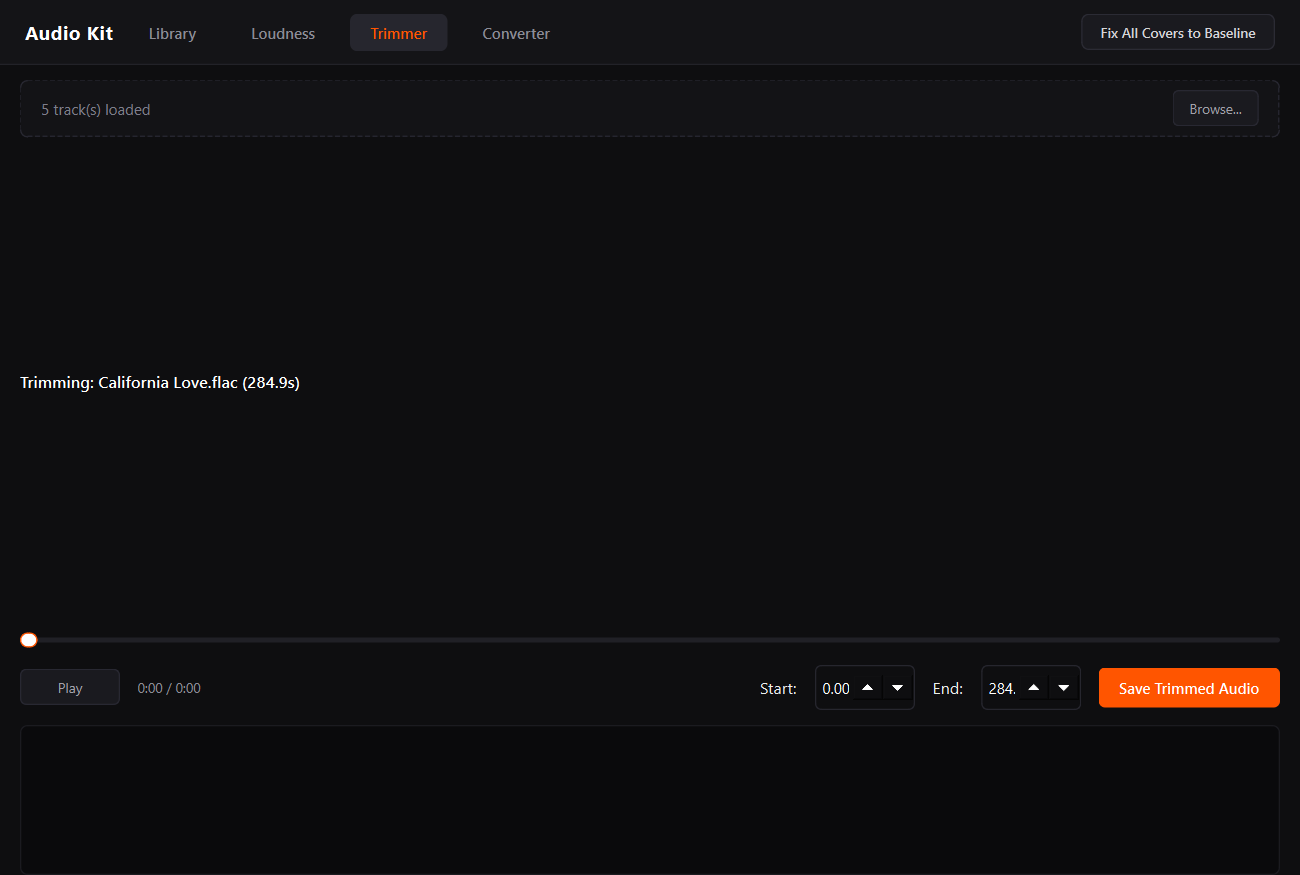
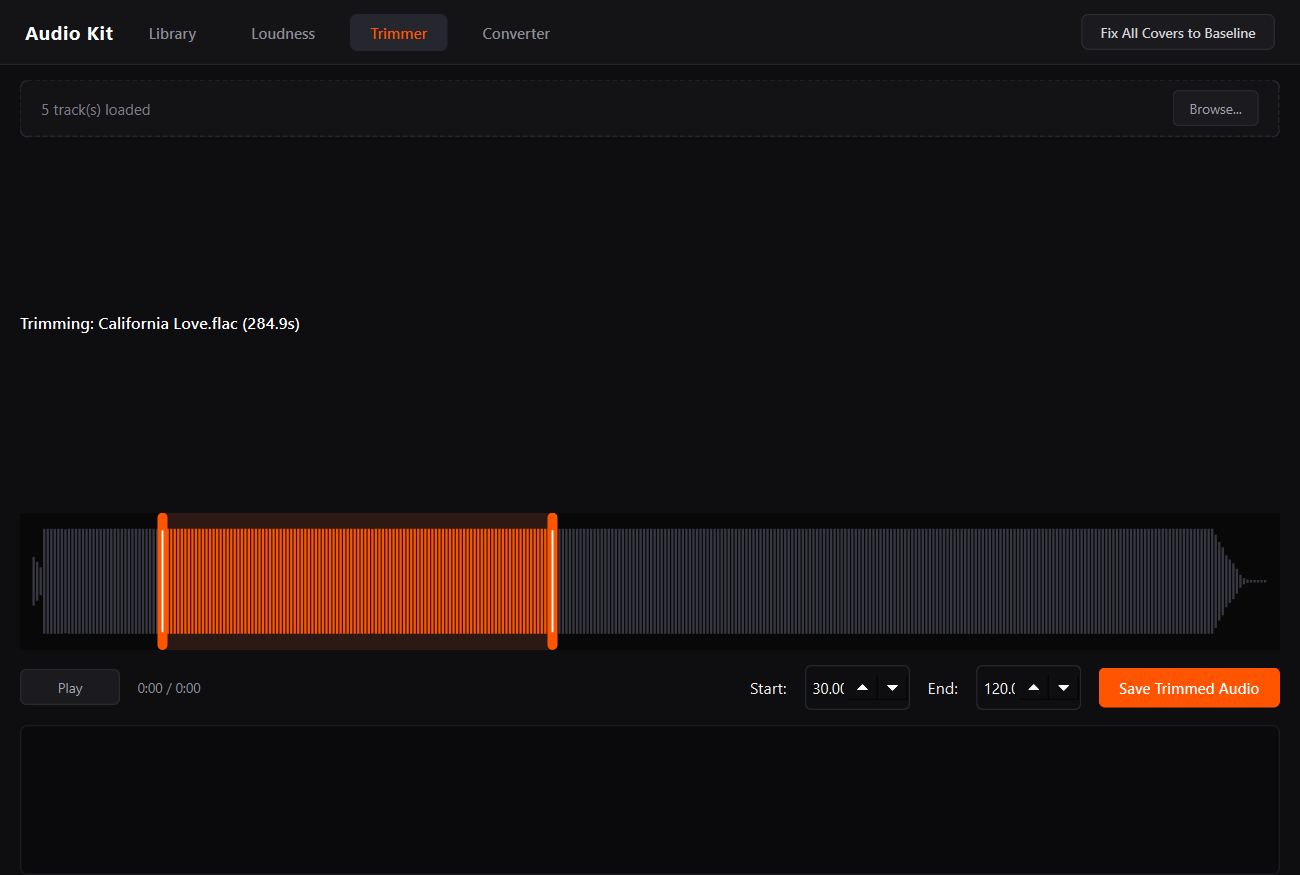
Add interactive draggable waveform timeline with dual start/end range handles

diff --git a/gui/waveform.py b/gui/waveform.py
@@ -1,0 +1,193 @@
+"""
+WaveformTimeline Widget for Audio Kit
+Renders an interactive audio waveform with draggable Start and End range handles,
+active selection highlight, and live playback playhead.
+"""
+
+import numpy as np
+import soundfile as sf
+from PyQt6.QtWidgets import QWidget
+from PyQt6.QtCore import Qt, pyqtSignal, QRectF
+from PyQt6.QtGui import QPainter, QColor, QPen, QBrush, QMouseEvent
+
+class WaveformTimeline(QWidget):
+    rangeChanged = pyqtSignal(float, float) # start_sec, end_sec
+    seekRequested = pyqtSignal(float)       # pos_sec
+
+    def __init__(self, parent=None):
+        super().__init__(parent)
+        self.setFixedHeight(110)
+        self.setMouseTracking(True)
+        self.setCursor(Qt.CursorShape.CrossCursor)
+
+        self.duration_sec = 0.0
+        self.start_sec = 0.0
+        self.end_sec = 0.0
+        self.current_pos_sec = 0.0
+        self.peaks = [] # Normalized peak amplitudes (0.0 to 1.0)
+
+        # Dragging state
+        self.dragging_handle = None # 'start', 'end', or 'seek'
+        self.handle_width = 10
+
+    def load_audio(self, file_path):
+        try:
+            info = sf.info(file_path)
+            self.duration_sec = float(info.duration)
+            self.start_sec = 0.0
+            self.end_sec = self.duration_sec
+            self.current_pos_sec = 0.0
+
+            # Downsample to ~350 waveform bins for smooth visual rendering
+            data, _ = sf.read(file_path, dtype='float32')
+            if len(data.shape) > 1:
+                mono = np.mean(data, axis=1)
+            else:
+                mono = data
+
+            num_bins = 350
+            chunks = np.array_split(mono, num_bins)
+            raw_peaks = [float(np.max(np.abs(c))) if len(c) > 0 else 0.0 for c in chunks]
+            max_p = max(raw_peaks) if max(raw_peaks) > 0 else 1.0
+            self.peaks = [p / max_p for p in raw_peaks]
+
+            self.rangeChanged.emit(self.start_sec, self.end_sec)
+            self.update()
+        except Exception:
+            self.duration_sec = 0.0
+            self.peaks = []
+            self.update()
+
+    def set_range(self, start, end):
+        self.start_sec = max(0.0, min(start, self.duration_sec))
+        self.end_sec = max(self.start_sec, min(end, self.duration_sec))
+        self.update()
+
+    def set_playhead(self, pos_sec):
+        self.current_pos_sec = pos_sec
+        self.update()
+
+    def _sec_to_x(self, sec):
+        if self.duration_sec <= 0:
+            return 0
+        w = self.width() - (self.handle_width * 2)
+        return self.handle_width + int((sec / self.duration_sec) * w)
+
+    def _x_to_sec(self, x):
+        if self.duration_sec <= 0:
+            return 0.0
+        w = self.width() - (self.handle_width * 2)
+        clamped_x = max(self.handle_width, min(x, self.width() - self.handle_width))
+        ratio = (clamped_x - self.handle_width) / max(1, w)
+        return ratio * self.duration_sec
+
+    def paintEvent(self, event):
+        painter = QPainter(self)
+        painter.setRenderHint(QPainter.RenderHint.Antialiasing)
+
+        w = self.width()
+        h = self.height()
+        mid_y = h / 2.0
+
+        # Background base
+        painter.fillRect(0, 0, w, h, QColor("#121215"))
+
+        if not self.peaks or self.duration_sec <= 0:
+            painter.setPen(QColor("#4C4C55"))
+            painter.drawText(self.rect(), Qt.AlignmentFlag.AlignCenter, "No waveform loaded")
+            return
+
+        start_x = self._sec_to_x(self.start_sec)
+        end_x = self._sec_to_x(self.end_sec)
+        play_x = self._sec_to_x(self.current_pos_sec)
+
+        # Inactive outside dims
+        painter.fillRect(0, 0, start_x, h, QColor(0, 0, 0, 140))
+        painter.fillRect(end_x, 0, w - end_x, h, QColor(0, 0, 0, 140))
+
+        # Selected Active Region Highlight
+        painter.fillRect(start_x, 0, end_x - start_x, h, QColor(255, 85, 0, 28))
+
+        # Draw Waveform Bars
+        num_peaks = len(self.peaks)
+        content_w = w - (self.handle_width * 2)
+        bar_w = max(1.5, content_w / num_peaks - 1)
+
+        for i, peak in enumerate(self.peaks):
+            bx = self.handle_width + (i * (content_w / num_peaks))
+            bar_h = max(2.0, peak * (h - 26))
+
+            # Color active vs inactive bars
+            if start_x <= bx <= end_x:
+                color = QColor("#FF5500") # TE Signal Orange
+            else:
+                color = QColor("#383842") # Dimmed inactive
+
+            painter.fillRect(QRectF(bx, mid_y - (bar_h / 2.0), bar_w, bar_h), color)
+
+        # Draw Start Handle (Left Orange Bracket)
+        painter.setPen(Qt.PenStyle.NoPen)
+        painter.setBrush(QBrush(QColor("#FF5500")))
+        painter.drawRoundedRect(QRectF(start_x - 4, 0, 8, h), 4, 4)
+
+        # Draw End Handle (Right Orange Bracket)
+        painter.drawRoundedRect(QRectF(end_x - 4, 0, 8, h), 4, 4)
+
+        # Center line in handles for grip cue
+        painter.setPen(QPen(QColor("#FFFFFF"), 1.5))
+        painter.drawLine(int(start_x), 15, int(start_x), h - 15)
+        painter.drawLine(int(end_x), 15, int(end_x), h - 15)
+
+        # Draw Playhead cursor (Thin White needle)
+        if start_x <= play_x <= end_x:
+            painter.setPen(QPen(QColor("#FFFFFF"), 2))
+            painter.drawLine(int(play_x), 0, int(play_x), h)
+
+    def mousePressEvent(self, event: QMouseEvent):
+        if self.duration_sec <= 0:
+            return
+        x = event.pos().x()
+        start_x = self._sec_to_x(self.start_sec)
+        end_x = self._sec_to_x(self.end_sec)
+
+        # Check if clicking on or near start handle
+        if abs(x - start_x) <= 12:
+            self.dragging_handle = 'start'
+        elif abs(x - end_x) <= 12:
+            self.dragging_handle = 'end'
+        else:
+            # Click inside timeline requests playhead seek
+            self.dragging_handle = 'seek'
+            click_sec = self._x_to_sec(x)
+            self.seekRequested.emit(click_sec)
+
+    def mouseMoveEvent(self, event: QMouseEvent):
+        if self.duration_sec <= 0:
+            return
+        x = event.pos().x()
+        start_x = self._sec_to_x(self.start_sec)
+        end_x = self._sec_to_x(self.end_sec)
+
+        if not self.dragging_handle:
+            # Update cursor on hover over handles
+            if abs(x - start_x) <= 12 or abs(x - end_x) <= 12:
+                self.setCursor(Qt.CursorShape.SizeHorCursor)
+            else:
+                self.setCursor(Qt.CursorShape.CrossCursor)
+            return
+
+        new_sec = self._x_to_sec(x)
+
+        if self.dragging_handle == 'start':
+            self.start_sec = max(0.0, min(new_sec, self.end_sec - 0.2))
+            self.rangeChanged.emit(self.start_sec, self.end_sec)
+            self.update()
+        elif self.dragging_handle == 'end':
+            self.end_sec = max(self.start_sec + 0.2, min(new_sec, self.duration_sec))
+            self.rangeChanged.emit(self.start_sec, self.end_sec)
+            self.update()
+        elif self.dragging_handle == 'seek':
+            self.seekRequested.emit(new_sec)
+
+    def mouseReleaseEvent(self, event: QMouseEvent):
+        self.dragging_handle = None

diff --git a/main.py b/main.py
@@ -19,6 +19,8 @@ from PyQt6.QtCore import Qt, QThread, pyqtSignal, QUrl
 from PyQt6.QtGui import QDragEnterEvent, QDropEvent, QPixmap, QIcon
 from PyQt6.QtMultimedia import QMediaPlayer, QAudioOutput
 
+from gui.waveform import WaveformTimeline
+
 from core.engine import (
     scan_audio_files, read_audio_metadata, save_audio_metadata,
     extract_artwork, set_artwork, trim_audio_file, convert_audio_format,
@@ -456,10 +458,11 @@ class AudioKitMainWindow(QMainWindow):
         self.trim_file_label.setStyleSheet("font-size: 13px; font-weight: 600; color: #FFFFFF;")
         t_layout.addWidget(self.trim_file_label)
 
-        # Scrubber slider
-        self.trim_slider = QSlider(Qt.Orientation.Horizontal)
-        self.trim_slider.sliderMoved.connect(self._seek_player)
-        t_layout.addWidget(self.trim_slider)
+        # Interactive Waveform with drag handles
+        self.waveform = WaveformTimeline()
+        self.waveform.rangeChanged.connect(self._on_waveform_range_changed)
+        self.waveform.seekRequested.connect(self._on_waveform_seek)
+        t_layout.addWidget(self.waveform)
 
         # Controls & Spinboxes
         ctrl_row = QHBoxLayout()
@@ -477,21 +480,23 @@ class AudioKitMainWindow(QMainWindow):
         ctrl_row.addWidget(self.time_label)
         ctrl_row.addStretch()
 
-        # Start & End Spinboxes
+        # Start & End Spinboxes (synchronized with waveform handles)
         ctrl_row.addWidget(QLabel("Start:"))
         self.spin_start = QDoubleSpinBox()
         self.spin_start.setRange(0.0, 9999.0)
-        self.spin_start.setSingleStep(0.5)
+        self.spin_start.setSingleStep(0.2)
         self.spin_start.setSuffix("s")
-        self.spin_start.setFixedWidth(80)
+        self.spin_start.setFixedWidth(84)
+        self.spin_start.valueChanged.connect(self._on_spin_changed)
         ctrl_row.addWidget(self.spin_start)
 
         ctrl_row.addWidget(QLabel("End:"))
         self.spin_end = QDoubleSpinBox()
         self.spin_end.setRange(0.0, 9999.0)
-        self.spin_end.setSingleStep(0.5)
+        self.spin_end.setSingleStep(0.2)
         self.spin_end.setSuffix("s")
-        self.spin_end.setFixedWidth(80)
+        self.spin_end.setFixedWidth(84)
+        self.spin_end.valueChanged.connect(self._on_spin_changed)
         ctrl_row.addWidget(self.spin_end)
 
         self.btn_trim_save = QPushButton("Save Trimmed Audio")
@@ -759,6 +764,7 @@ class AudioKitMainWindow(QMainWindow):
             self.spin_start.setValue(0.0)
             self.spin_end.setMaximum(dur)
             self.spin_end.setValue(dur)
+            self.waveform.load_audio(path)
             self.player.setSource(QUrl.fromLocalFile(path))
 
     def _display_cover(self, img_bytes):
@@ -898,32 +904,55 @@ class AudioKitMainWindow(QMainWindow):
         self.loudness_console.append(f">> Finished scanning and tagging {total} tracks.")
 
     # --- Trimmer Methods ---
+    def _on_waveform_range_changed(self, start, end):
+        self.spin_start.blockSignals(True)
+        self.spin_end.blockSignals(True)
+        self.spin_start.setValue(start)
+        self.spin_end.setValue(end)
+        self.spin_start.blockSignals(False)
+        self.spin_end.blockSignals(False)
+
+    def _on_spin_changed(self):
+        s = self.spin_start.value()
+        e = self.spin_end.value()
+        if e > s:
+            self.waveform.set_range(s, e)
+
+    def _on_waveform_seek(self, sec):
+        self.player.setPosition(int(sec * 1000))
+        self.waveform.set_playhead(sec)
+
     def _toggle_playback(self):
         if self.player.playbackState() == QMediaPlayer.PlaybackState.PlayingState:
             self.player.pause()
             self.btn_play_pause.setText("Play")
         else:
+            # Play starting from start handle if current position is outside range
+            cur_sec = self.player.position() / 1000
+            if cur_sec < self.spin_start.value() or cur_sec >= self.spin_end.value():
+                self.player.setPosition(int(self.spin_start.value() * 1000))
             self.player.play()
             self.btn_play_pause.setText("Pause")
 
     def _on_player_pos_changed(self, pos_ms):
         dur_ms = self.player.duration()
-        if dur_ms > 0:
-            self.trim_slider.setValue(int(pos_ms * 1000 / dur_ms))
-            cur_s = pos_ms / 1000
-            tot_s = dur_ms / 1000
-            self.time_label.setText(f"{int(cur_s//60)}:{int(cur_s%60):02d} / {int(tot_s//60)}:{int(tot_s%60):02d}")
+        cur_s = pos_ms / 1000
+        tot_s = dur_ms / 1000 if dur_ms > 0 else 0
+        self.time_label.setText(f"{int(cur_s//60)}:{int(cur_s%60):02d} / {int(tot_s//60)}:{int(tot_s%60):02d}")
+        self.waveform.set_playhead(cur_s)
+
+        # Loop or stop if reaching end of selection range
+        end_s = self.spin_end.value()
+        if end_s > 0 and cur_s >= end_s and self.player.playbackState() == QMediaPlayer.PlaybackState.PlayingState:
+            self.player.pause()
+            self.btn_play_pause.setText("Play")
 
     def _on_player_duration_changed(self, dur_ms):
         tot_s = dur_ms / 1000
         self.spin_end.setMaximum(tot_s)
-        if self.spin_end.value() == 0.0 or self.spin_end.value() > tot_s:
-            self.spin_end.setValue(tot_s)
 
     def _seek_player(self, val):
-        dur_ms = self.player.duration()
-        if dur_ms > 0:
-            self.player.setPosition(int(val * dur_ms / 1000))
+        pass
 
     def _execute_trim(self):
         if not self.current_meta:
